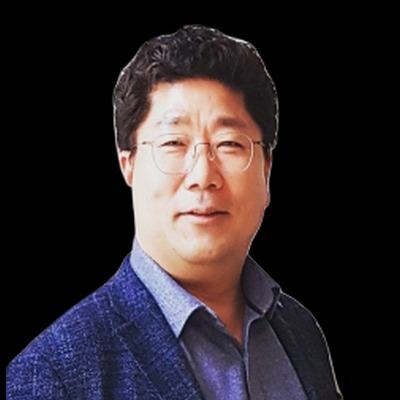
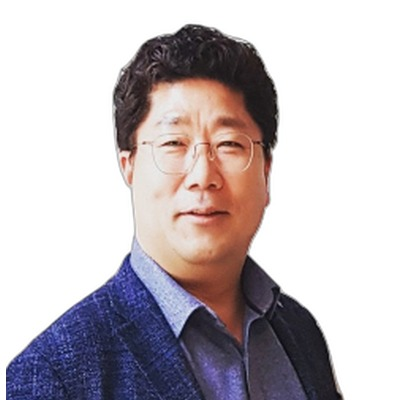
교수 사진 배경 흰색으로 변경, 실루엣도 밝은 톤
Claude-Session: https://claude.ai/code/session_01UrhKGjgfZoGpzA1qThRAS9

diff --git a/dept/index.html b/dept/index.html
@@ -238,7 +238,7 @@ input,select,textarea{font:400 15px var(--kr);color:var(--ink);background:#fff;b
 .person{border-radius:16px;padding:20px;background:#fff;border:1px solid var(--line);box-shadow:0 4px 14px rgba(0,0,0,.06);display:grid;grid-template-columns:56px 1fr;gap:14px}
 .avatar{width:56px;height:56px;border-radius:50%;display:grid;place-items:center;font-weight:700;font-size:21px;color:#fff;background:linear-gradient(145deg,#C8374D,#9E1915 45%,#7E120F)}
 .person.t-prof{grid-template-columns:88px 1fr}
-.person.t-prof .avatar{width:88px;height:88px;overflow:hidden;background:#000;box-shadow:0 3px 10px rgba(0,0,0,.18)}
+.person.t-prof .avatar{width:88px;height:88px;overflow:hidden;background:#fff;border:1px solid var(--line2);box-shadow:0 3px 10px rgba(0,0,0,.10)}
 .person.t-prof .avatar img,.person.t-prof .avatar svg{width:100%;height:100%;display:block}
 .person.t-prof .avatar img{object-fit:cover;object-position:center}
 .person.t-ext .avatar{background:var(--white-grad);color:var(--body);border:1px solid var(--line2)}
@@ -1093,7 +1093,7 @@ var PROFS=[
  {n:"안여령",lec:"오케스트라리더십",email:"manito92@gmail.com"}
 ];
 var PROF_PHONE=null;
-var SILH='<svg viewBox="0 0 88 88" aria-hidden="true"><rect width="88" height="88" fill="#000"/><circle cx="44" cy="34" r="15" fill="#3C3C44"/><path d="M14 88c0-20 13-31 30-31s30 11 30 31z" fill="#3C3C44"/></svg>';
+var SILH='<svg viewBox="0 0 88 88" aria-hidden="true"><rect width="88" height="88" fill="#fff"/><circle cx="44" cy="34" r="15" fill="#D4D4DA"/><path d="M14 88c0-20 13-31 30-31s30 11 30 31z" fill="#D4D4DA"/></svg>';
 function renderProfs(){
   $('#people').innerHTML=PROFS.map(function(p){
     var ph=PROF_PHONE&&PROF_PHONE[p.n];
